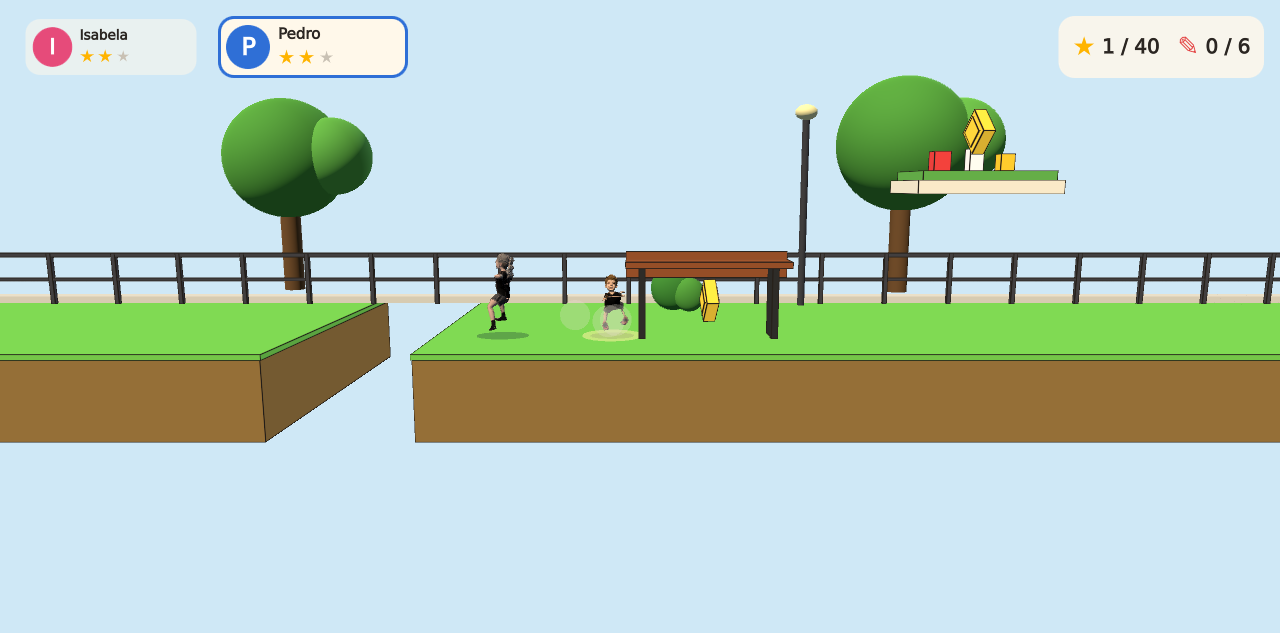
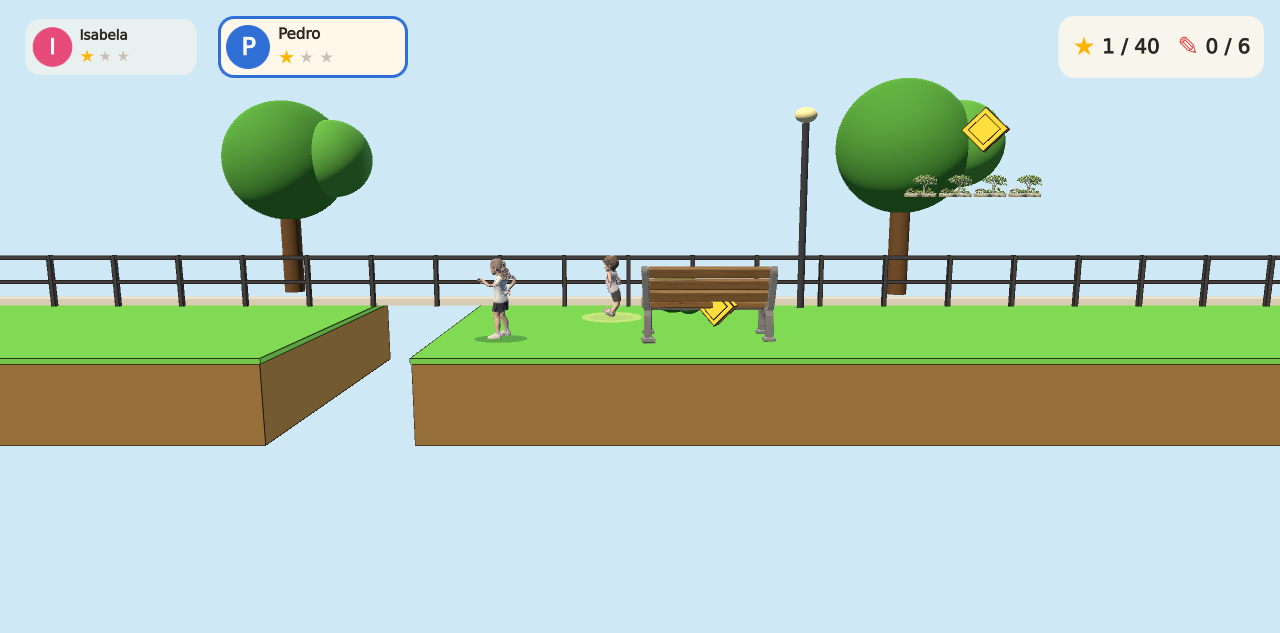
walkthrough: wait for both siblings at the door; hazard init warning; screenshots

diff --git a/app/config/walkthrough.js b/app/config/walkthrough.js
@@ -100,6 +100,6 @@ var steps = [
     { do: "jump", x: 461.0, dir: 1, hold: 0.35, air: 0.35 }, { do: "expect", yMin: 1.9 }, { do: "move", x: 464.9 },
     { do: "hopOnto", left: 466.5, right: 467.9, top: 1.2, hold: 0.3, skipIfPast: true }, { do: "move", x: 468.3 },
     { do: "crawl", x: 472.7 }, { do: "expect", xMin: 472.3 },
-    { do: "move", x: 477.7 }, { do: "interact" },
-    { do: "switch", to: "isabela" }, { do: "move", x: 475.3 }, { do: "interact" }, { do: "expect", finished: true, timeout: 4 }
+    { do: "move", x: 477.7 }, { do: "expect", bothAtDoor: true, timeout: 12 }, { do: "interact" },
+    { do: "switch", to: "isabela" }, { do: "move", x: 475.3 }, { do: "expect", bothAtDoor: true, timeout: 12 }, { do: "interact" }, { do: "expect", finished: true, timeout: 4 }
 ]

diff --git a/app/EscolaGame.qml b/app/EscolaGame.qml
@@ -425,6 +425,7 @@ Item {
         if (s.memory !== undefined) return director.memoryFound === s.memory ? true : "memory=" + director.memoryFound
         if (s.checkpoint !== undefined) return checkpoint.id === s.checkpoint ? true : "checkpoint=" + checkpoint.id
         if (s.finished !== undefined) return (phase === "complete") === s.finished ? true : "phase=" + phase
+        if (s.bothAtDoor !== undefined) return director.finalDoor && director.finalDoor.bothPresent === s.bothAtDoor ? true : "present=" + JSON.stringify(director.finalDoor ? director.finalDoor.present : null)
         return "unknown expectation"
     }
     function finishWalkthrough() {
